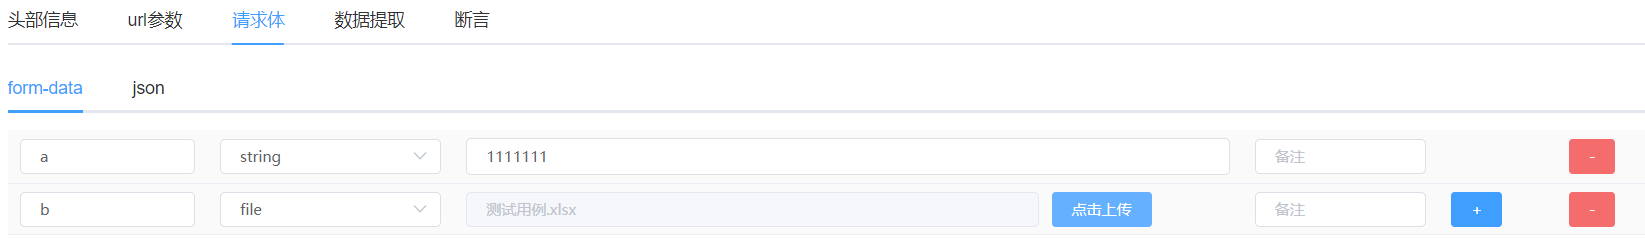
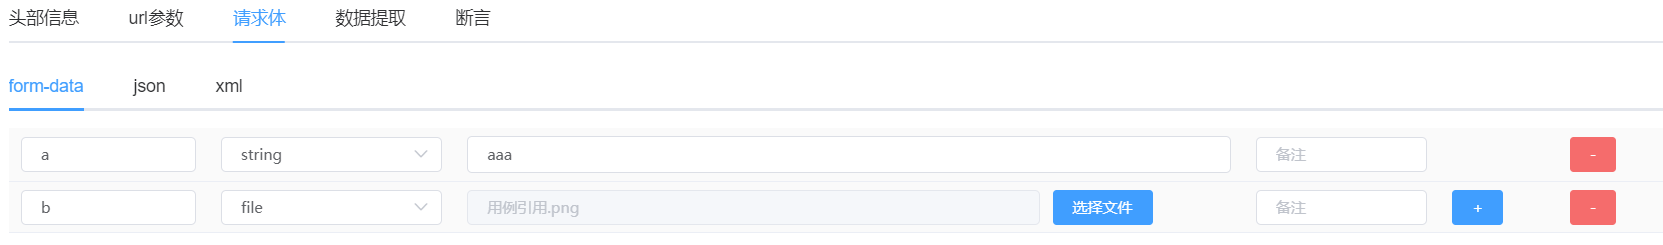
更新操作手册

diff --git a/操作手册.md b/操作手册.md
@@ -41,7 +41,7 @@
 
   * 2.3、模块操作：
   >* 2.2.1、点击项目即可获取项目下的模块
-  >* 2.2.2、鼠标悬浮到模块上就会出现菜单，可以对选中的模块进行 新增、修改、删除、添加接口操作
+  >* 2.2.2、鼠标悬浮到模块上就会出现菜单，可以对选中的模块进行 新增、修改、删除、添加接口、从excel导入接口操作
   >* 2.2.3、选中模块后，会自动请求选中模块下的接口列表
   ![模块操作](images/module/模块操作.png)
 
@@ -55,10 +55,9 @@
     >* 3.1.4、接口名称：接口名，同一模块下，不重复即可
     >* 3.1.5、前置条件：在触发此接口之前要执行的操作，结合函数文件操作（在函数文件里面写好操作，在这里引用，前提是项目里面引用了此函数文件）
     >* 3.1.6、后置条件：在触发此接口之后要执行的操作，操作同上
-    >* 3.1.7、接口编号：当前接口在当前模块下的编号，可更改，用于后端查找时排序
-    >* 3.1.8、请求方式：目前支持选择GET、POST、PUT、DELETE，默认为POST，请求方式在参数管理处配置
-    >* 3.1.9、接口地址：由运行环境 + 此处的接口地址，拼接为请求的url
-    >* 3.1.10、调试：会保存当前设置的接口信息，并发送http请求
+    >* 3.1.7、请求方式：目前支持选择GET、POST、PUT、DELETE，默认为POST，请求方式在参数管理处配置
+    >* 3.1.8、接口地址：由运行环境 + 此处的接口地址，拼接为请求的url
+    >* 3.1.9、调试：会保存当前设置的接口信息，并发送http请求
   ![接口概要信息](images/api/接口概要信息.png)
     >* 3.3.11、配置请求方式：在参数管理-全局参数设置（项目初始化时会初始化此配置）
   ![请求方式配置](images/api/请求方式配置.png)
@@ -71,11 +70,13 @@
     >* 每次触发此接口时附带发送的查询字符串参数
   ![查询字符串参数](images/api/查询字符串参数.png)
 
-  * 3.4、请求体：目前请求体支持form-data和json
-    >* 3.4.1、 form-data：支持字符串参数和文件参数
+  * 3.4、请求体：目前请求体支持form-data、json、xml
+    * 3.4.1、 form-data：支持字符串参数和文件参数
   ![form-data](images/api/form-data.png)
-    >* 3.4.2、json：需为json格式，点右侧格式化可进行格式化
+    * 3.4.2、json：需为json格式，点右侧格式化可进行格式化
   ![json](images/api/json.png)
+    * 3.4.3、xml：xml参数
+  ![xml](images/api/xml.png)
   
   * 3.5、数据提取：对于当前接口响应过后，提取一些数据出来，用来断言或者参数传递都可以，此数据提取后会在内存中，运行完毕即销毁
     >* 3.1.5.1、以key: value的形式设置，其他地方要引用此处提取的值，则直接用$key就可引用
@@ -89,14 +90,16 @@
     >* 3.6.1、以key: value的形式设置
     >* 3.6.2、key：实际结果提取表达式，或已提取的值的引用（$已提取或已设置的key）、或正确的正则表达式（会在响应体中提取数据）
     >* 3.6.3、value：必须严格区分数据类型，字符串的1则填"1"
-    >* 3.6.4、断言类型：目前支持：相等、json相等（包括元素的位置）、不相等、包含、不包含、被包含、不被包含、转为字符串以后相等、字符串的开头、字符串的结尾、值为真、值小于、值小于等于、值大于、值大于等于、长度等于、长度大于、长度大于等于、长度小于、长度小于等于、断言数据类型、正则匹配
+    >* 3.6.4、断言类型：目前支持：相等、json相等（包括元素的位置）、契约校验、不相等、包含、不包含、被包含、不被包含、转为字符串以后相等、字符串的开头、字符串的结尾、值为真、值小于、值小于等于、值大于、值大于等于、长度等于、长度大于、长度大于等于、长度小于、长度小于等于、断言数据类型、正则匹配
   ![断言](images/api/断言.png)
 
-  * 3.7、调试结果：调试完成后，会弹框渲染，红色为断言不通过或失败，绿色为断言通过（未设置断言信息则默认通过）
-  ![返回结果](images/api/返回结果.png)
-  ![返回信息](images/api/返回信息.png)
-  ![请求信息](images/api/请求信息.png)
-  ![提取信息](images/api/提取信息.png)
+  * 3.7、调试结果：调试完成后，会新开页面展示测试报告，红色为断言不通过或失败，绿色为断言通过（未设置断言信息则默认通过）
+  ![返回结果](images/api/调试接口.png)
+  ![返回信息](images/api/运行接口.png)
+  ![请求信息](images/api/测试报告.png)
+
+  * 3.8、拖拽排序：可拖拽进行排序
+  ![拖拽排序](images/api/拖拽排序.png)
 
 4、用例管理
 
@@ -109,7 +112,6 @@
     >* 4.2.3、函数文件：若是在此用例中要用到自定义辅助函数，则需要在这里引用对应的函数文件
     >* 4.2.4、用例名称：用例名，同一用例集中，不重复即可
     >* 4.2.5、执行次数：执行此用例的时候，执行多少次，默认1次
-    >* 4.2.6、用例编号：当前接口在当前模块下的编号，可更改，用于后端查找时排序
   ![用例信息](images/case/用例信息.png)
 
   * 4.3、头部信息：
@@ -123,17 +125,28 @@
     >* 4.4.3、当key与项目级的公用变量相同时，以此处为准
   ![公用变量](images/case/公用变量.png)
 
-  * 4.5、步骤管理：把已录入的接口，转化为用例的步骤
-    >* 4.5.1、用例里面要执行操作的步骤很可能是需要跨项目的，这里按需引用即可
-    >* 4.5.2、选择项目、选择模块、在该模块下的接口列表中点击需要转化为步骤的接口行的“添加到步骤”，此时，将跳转到步骤信息
-    >* 4.5.3、当跳转到步骤信息时，会将已添加好的接口及其数据带过来（参数信息、断言信息、提取信息...），这里根据用例设计，修改对应的数据即可
+  * 4.5、引用用例：
+    * 4.5.1、引用已存在的用例、如登录、或者当前用例需要用到的前置条件或者后置条件，次用例就只需要关注测试点即可
+  ![引用用例](images/case/引用用例.png)
+
+  * 4.6、步骤管理：把已录入的接口，转化为用例的步骤
+    * 4.6.1、用例里面要执行操作的步骤很可能是需要跨项目的，这里按需引用即可
+    * 4.6.2、选择项目、选择模块、在该模块下的接口列表中点击需要转化为步骤的接口行的“添加到步骤”，此时，将跳转到步骤信息
+    * 4.6.3、当跳转到步骤信息时，会将已添加好的接口及其数据带过来（参数信息、断言信息、提取信息...），这里根据用例设计，修改对应的数据即可
   ![接口转步骤](images/step/接口转步骤.png)
   ![步骤信息](images/step/步骤信息.png)
   ![保存步骤](images/step/保存步骤.png)
+    * 4.6.4、数据驱动，列表里面的每一个字典为一个请求的参数，_comment参数为用例描述，不会参与到传参中，会加到步骤名后面
+    * 4.6.5、当请求方法为get时，参数默认传查询字符串参数，当请求方法为非get请求时，参数默认为json
+  ![数据驱动](images/step/数据驱动.png)
 
   * 4.6、复制用例：完全复制当前选中的用例，及其下面的测试步骤
+  ![复制用例](images/case/复制用例.png)
   
-  * 4.7、运行用例：用例列表点击运行用例即可，运行完用例过后，会生成测试报告，并且自动新开一个窗口，打开对应的测试报告
+  * 4.7、拖拽排序：用例可继续拖拽排序
+  ![拖拽排序](images/case/拖拽排序.png)
+
+  * 4.8、运行用例：用例列表点击运行用例即可，运行完用例过后，会生成测试报告，并且自动新开一个窗口，打开对应的测试报告
   ![运行用例](images/case/运行用例.png)
   ![运行用例结果](images/case/运行用例结果.png)
 
@@ -172,12 +185,14 @@
   
   * 6.3、接收报告：
     >* 6.3.1、当选择了要发送报告是（始终发送、仅有不通过用例时发送），才展示此选项
-    >* 6.3.2、仅微信群：当达到发送报告的条件时，往webhook发送测试报告，支持企业微信webhook地址、钉钉群助手
-  ![webhook](images/task/webhook.png)
-    >* 6.3.3、仅邮件：当达到发送报告的条件时，往收件邮箱发送测试报告，发件邮箱服务器在参数管理处配置，配置类型选邮箱即可
+    >* 6.3.2、仅微信群：当达到发送报告的条件时，往企业微信群发送测试报告
+  ![微信群](images/task/微信群.png)
+    >* 6.3.3、仅钉钉群：当达到发送报告的条件时，当达到发送报告的条件时，往钉钉群发送测试报告
+  ![钉钉群](images/task/钉钉群.png)
+    >* 6.3.4、仅邮件：当达到发送报告的条件时，往收件邮箱发送测试报告，发件邮箱服务器在参数管理处配置，配置类型选邮箱即可
   ![邮件](images/task/邮件.png)
   ![邮箱服务器配置](images/task/邮箱服务器配置.png)
-    >* 6.3.4、都接收：webhook、邮件都接收
+    >* 6.3.5、都接收：企业微信、钉钉、邮件都接收
   ![都接收](images/task/都接收.png)
   
   * 6.4、时间配置：支持cron表达式，可点击右侧 “调试cron表达式” 进行调试

diff --git a/README.md b/README.md
@@ -28,10 +28,18 @@
     5.nginx -s reload 重启nginx
 
 ### 6.启动项目
-    开发环境: 运行 main.py
-    生产环境: 
-        使用配置文件: sudo nohup gunicorn -c gunicornConfig.py main:app &
-        不使用配置文件: sudo nohup gunicorn -w 3 -b 0.0.0.0:8024 main:app –preload &
+    开发环境: 
+        运行测试平台 main.py
+        运行定时任务服务 jobServer.py
+    
+    生产环境:
+
+        运行测试平台：
+            使用配置文件: sudo nohup gunicorn -c gunicornConfig.py main:app –preload &
+            不使用配置文件: sudo nohup gunicorn -w 1 -b 0.0.0.0:8024 main:app –preload &
+        
+        运行定时任务服务（定时任务只起一个进程即可，起多了会冲突）：
+            不使用配置文件: sudo nohup gunicorn -w 1 -b 0.0.0.0:8025 job:job –preload &
     
     如果报 gunicorn 命令不存在，则先找到 gunicorn 安装目录，创建软连接
     ln -s /usr/local/python3/bin/gunicorn /usr/bin/gunicorn
@@ -47,6 +55,7 @@
     3.自定义变量：
         1.在项目管理可以创建项目级的自定义变量，在需要使用的时候用 "$变量名" 引用
         2.在用例管理可以创建用例级的自定义变量，在需要使用的时候用 "$变量名" 引用
+        3.在用例运行中可以提取步骤级的自定义变量，在需要使用的时候用 "$变量名" 引用
     4.辅助函数
         1.在自定义函数模块下可以创建用于辅助实现某些功能的py脚本，里面可以创建函数用于实现平台未提供的功能
         2.使用：
@@ -54,9 +63,12 @@
             2.在需要使用的地方，用  "${函数名（参数）}" 引用
     5.参数传递
         1.在每个步骤中都有一个数据提取的模块，此模块支持xpath提取，逻辑为 key: 变量名、value: xpath
-        2.当数据提取出来过后，在用例中就可以使用 "$变量名" 引用
-    6.支持跨项目的接口组装为用例
+        2.当数据提取出来过后，在用例钟就可以使用 "$变量名" 引用
+    6.支持数据驱动，详见操作手册
+    7.支持跨项目的接口组装为用例
         当用例需要多个项目的接口组装为一条用例的时候，支持按需引用，即需要哪个项目的哪个接口，就引入该接口即可
+    8.用例引用
+        支持引用已组装的用例，如登录，当前用例的前置条件，只需引用即可
 
 ### 创作不易，麻烦给个星哦
 
